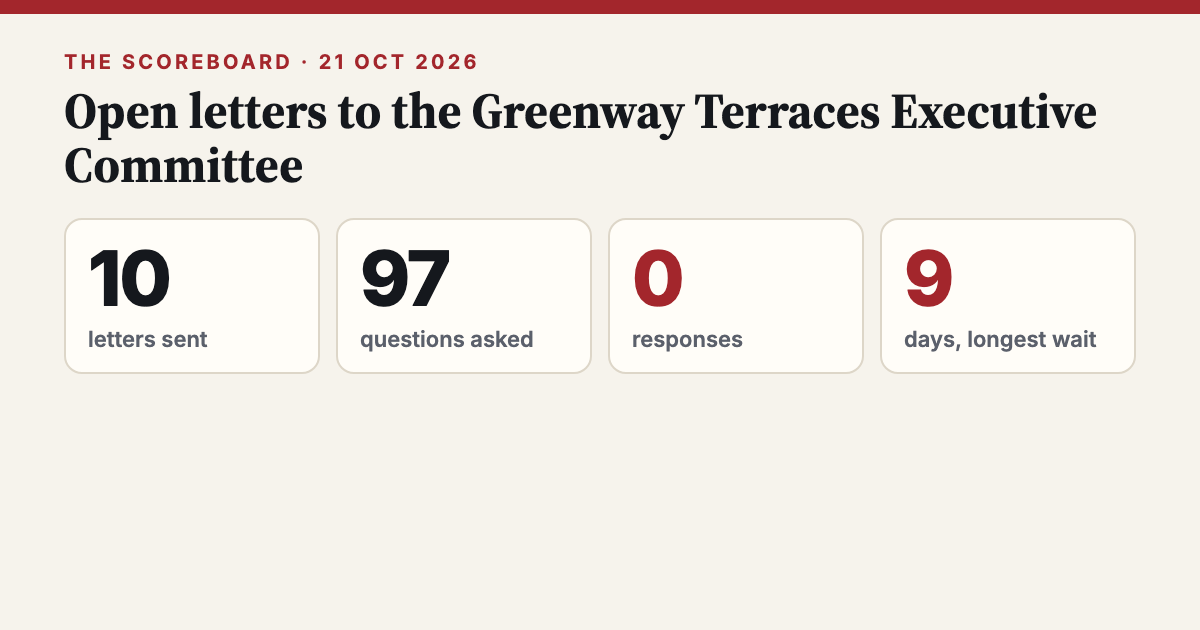
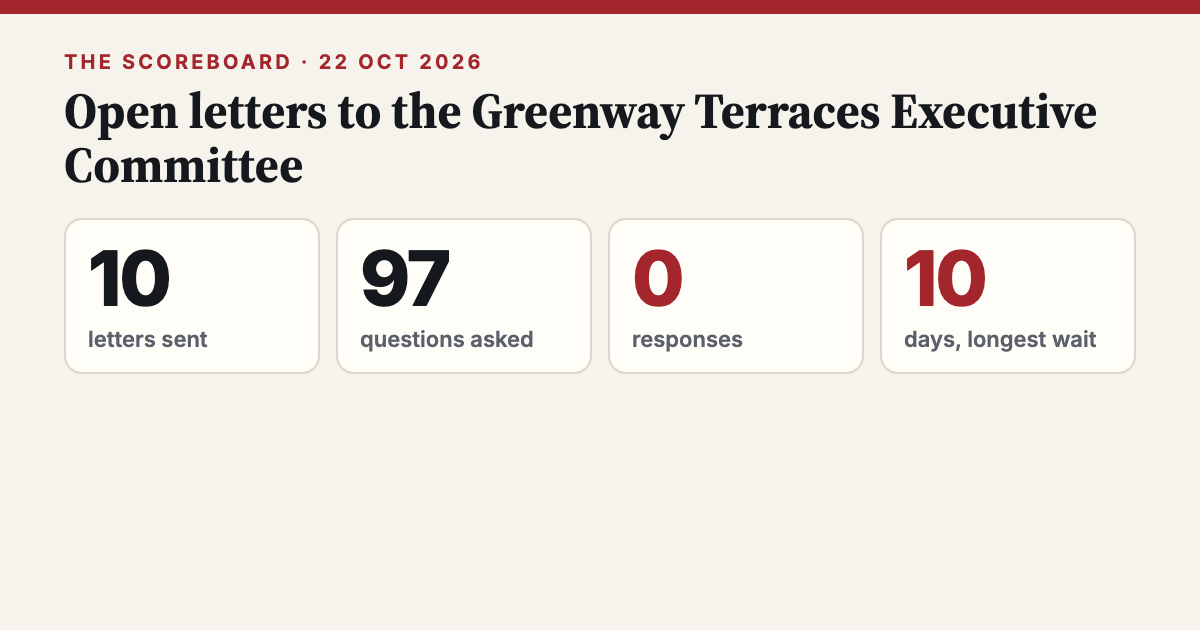
Update 2026-10-22 07:15

Changed region(s): [[0.74, 0.3921, 0.8325, 0.4825], [0.2775, 0.0905, 0.4008, 0.1206]]

diff --git a/l/2026-10-12-information-booklet-v1-0-october-2026-request-for/index.html b/l/2026-10-12-information-booklet-v1-0-october-2026-request-for/index.html
@@ -60,7 +60,7 @@ h3{font-size:17px;margin:26px 0 6px}
 <p class="lede">I've written to the Executive Committee of Owners Corporation UP12457 asking which resolution made the rules in the October 2026 booklet, whether they are registered, and for a reply by 6 November 2026.</p>
 <p class="meta">To <b>The Executive Committee, Greenway Terraces (UP12457)</b></p>
 <div class="clock" style="--c:var(--amber)" data-sent="2026-10-12" data-deadline="2026-11-06" data-small="6 Nov 2026">
-<div class="big">Day 9 of 25 — awaiting a response</div><div class="small">Response due 6 Nov 2026. 16 days left.</div><div class="bar"><i style="width:36%"></i></div></div>
+<div class="big">Day 10 of 25 — awaiting a response</div><div class="small">Response due 6 Nov 2026. 15 days left.</div><div class="bar"><i style="width:40%"></i></div></div>
 
 <h2>22 questions put to the Committee</h2>
 <ol class="qs" style="--c:var(--red)"><li>Which resolution made the rules in the booklet, at which meeting, and was it passed at a full or a reduced-quorum meeting?<span class="st">Unanswered</span></li><li>Have they been lodged for registration and, if so, on what date? If not, why is the booklet presenting them as the current rules?<span class="st">Unanswered</span></li><li>What has been issued to owners and residents since V1.0 was circulated, and does the Committee intend to correct or withdraw it if registration has not occurred?<span class="st">Unanswered</span></li><li>What is the Committee's authority for creating obligations by signage, given that rules are made by the Owners Corporation by special resolution?<span class="st">Unanswered</span></li><li>Which of the sign provisions does the Committee say are enforceable against residents, and under which registered rule?<span class="st">Unanswered</span></li><li>The supervision standards differ: rule 1.7(2)(b) (children under 16 in the pool room, by a responsible adult) and the signs (children under 12, by a person 16 or over). Which is correct?<span class="st">Unanswered</span></li><li>Which permitted ground does the Committee rely on for each of these requirements?<span class="st">Unanswered</span></li><li>What is the source and date of the advice recorded in Note 8, and who gave it?<span class="st">Unanswered</span></li><li>On what basis may the Committee require compliance with guidance not yet issued (rule 1.16(6))?<span class="st">Unanswered</span></li><li>Rule 1.17(3) limits charging of light electric vehicles, including mobility scooters, to the unit courtyard. What provision is made for residents with a disability who cannot comply?<span class="st">Unanswered</span></li><li>On what authority does the Strata Manager impose a penalty by letter, and how does that fit with section 109?<span class="st">Unanswered</span></li><li>Please identify the provision cited in paragraph 9, and the resolution by which the Committee and the Strata Manager were given permission to take legal action.<span class="st">Unanswered</span></li><li>The preamble says no special privilege to park is granted, while rule 1.7(8) grants one. Which applies?<span class="st">Unanswered</span></li><li>The policy treats 24 hours in a seven-day period in visitor parking as &quot;temporary parking&quot;, and rules 1.13(5)-(6) restrict visitor parking to visitors. On what basis does the Committee say a policy may vary a registered rule?<span class="st">Unanswered</span></li><li>Does the Committee accept that the policy does not remove an owner's ability to request that an infringement notice be given (s 111)?<span class="st">Unanswered</span></li><li>The booklet tells owners the best sources of information are the Act and minutes. Why does it not refer to the right to ask for access to the corporation's records (s 120A), to the Tribunal, or to mediation?<span class="st">Unanswered</span></li><li>It states that all owner communication should go through the Strata Manager's general email. Who is the Committee's designated contact for owner correspondence, and what response time does the Committee commit to?<span class="st">Unanswered</span></li><li>Several statements are made without a source: that only financial owners may vote; that Committee members are &quot;typically between 3 and 7&quot;; and that special levies may be determined only at an AGM or GM. Please identify the provision for each.<span class="st">Unanswered</span></li><li>Units of entitlement: the table in the booklet totals 9,996, not the stated 10,000. Lots 107 and 108 appear as 68, but the 2022 levy schedule shows 70. Which figure is correct, and has any levy been calculated from the table?<span class="st">Unanswered</span></li><li>CCTV Policy: on what advice does the Owners Corporation say the Information Privacy Act 2014, the Territory Records Act 2002 and the Human Rights Act 2004 apply to its system, and what advice was taken on the Privacy Act 1988 (Cth), the Workplace Privacy Act 2011 and the Surveillance Devices Act 2007?<span class="st">Unanswered</span></li><li>Notes 11, 12, 15 and 16 record non-compliant firewalls and combustible cladding. Please identify the reports and insurer conditions relied upon, and say who approved including them in the rules.<span class="st">Unanswered</span></li><li>The booklet says external paint colours &quot;must&quot; follow the palette and that owners &quot;must&quot; keep common-property garden patches in order. Under which rule?<span class="st">Unanswered</span></li></ol>

diff --git a/l/2026-10-15-video-cameras-my-questions-the-committees-responses-recommendations/index.html b/l/2026-10-15-video-cameras-my-questions-the-committees-responses-recommendations/index.html
@@ -60,7 +60,7 @@ h3{font-size:17px;margin:26px 0 6px}
 <p class="lede">I've written to the Greenway Terraces Executive Committee asking it to pause any camera extension, publish a review of the seven existing cameras and the $24,000 spend, and list every time footage was accessed.</p>
 <p class="meta">To <b>The Executive Committee, Greenway Terraces (UP12457)</b></p>
 <div class="clock" style="--c:var(--amber)" data-sent="2026-10-15" data-deadline="2026-11-05" data-small="5 Nov 2026">
-<div class="big">Day 6 of 21 — awaiting a response</div><div class="small">Response due 5 Nov 2026. 15 days left.</div><div class="bar"><i style="width:28.57142857142857%"></i></div></div>
+<div class="big">Day 7 of 21 — awaiting a response</div><div class="small">Response due 5 Nov 2026. 14 days left.</div><div class="bar"><i style="width:33.33333333333333%"></i></div></div>
 
 <h2>18 questions put to the Committee</h2>
 <ol class="qs" style="--c:var(--red)"><li>What specific problem is the extension meant to solve, and what is the evidence (dates, locations, types of incident, police reference numbers where applicable)?<span class="st">Unanswered</span></li><li>What have the existing seven cameras achieved on that problem? Has any footage led to an identification, a police outcome, or the prevention of a loss?<span class="st">Unanswered</span></li><li>What is the actual cost to date, and the whole-of-life cost over ten years of the proposed extension (hardware, installation, power and network, storage, licences, maintenance, replacement, administration)?<span class="st">Unanswered</span></li><li>Which fund would pay, under which budget or resolution, and is that consistent with the sinking fund plan and sections 75, 77 and 86 to 88?<span class="st">Unanswered</span></li><li>Where exactly would each camera go, what would it see, and could it see into private lots, balconies or windows?<span class="st">Unanswered</span></li><li>Would any camera be monitored, by whom, and at what cost? If not, what response is expected from recorded footage?<span class="st">Unanswered</span></li><li>What alternatives were considered (lighting, locks, access control, fencing, resident reporting, Neighbourhood Watch), with comparative cost and expected effect?<span class="st">Unanswered</span></li><li>What written legal and privacy advice has been obtained, and is the CCTV Policy current and compliant? Who may view footage, how is access logged, how long is footage kept, and how is it secured?<span class="st">Unanswered</span></li><li>What do residents think? Have owners and renters been consulted, including the different cultural and language groups in the complex?<span class="st">Unanswered</span></li><li>How will the vote be run so that it is representative? Of 151 units, a reduced quorum of 76 can decide a matter, so the Committee should state the turnout it regards as adequate, give clear notice with the supporting facts attached, and consider using the electronic voting already authorised by 2021 Motion 20. It should also explain the 28-day disallowance process.<span class="st">Unanswered</span></li><li>How will success be measured, who will report on it and when, and what happens if the objectives are not met?<span class="st">Unanswered</span></li><li>Whether the Committee accepts recommendations 1 to 11, and if not, why?<span class="st">Unanswered</span></li><li>A complete statement of each occasion footage has been accessed since installation, showing when, by whom, what it was used for and what the outcome was, or confirmation that no record exists?<span class="st">Unanswered</span></li><li>Whether this letter has been referred to the Security sub-committee, and the advice that sub-committee gives, reflected in the Committee's reply to me?<span class="st">Unanswered</span></li><li>Whether the Communications sub-committee will review the handling of correspondence, and when?<span class="st">Unanswered</span></li><li>When will the post-implementation review and report to owners be completed?<span class="st">Unanswered</span></li><li>Whether any further camera expenditure has been committed or is proposed?<span class="st">Unanswered</span></li><li>When can I expect answers to my letters of 22 March and 7 May 2026?<span class="st">Unanswered</span></li></ol>

diff --git a/index.html b/index.html
@@ -60,7 +60,7 @@ h3{font-size:17px;margin:26px 0 6px}
 <p class="lede">Open letters from an owner to the Executive Committee of Greenway Terraces (Units Plan 12457) and its strata manager: what was asked, and whether anyone answered. Each letter gets 28 days to be answered, or the deadline it sets itself. Responses are published in full; so is silence.</p>
 <div class="score"><div><b>10</b><span>letters sent</span></div><div><b>97</b><span>questions asked</span></div>
 <div class="red"><b>0</b><span>responses received</span></div>
-<div class="red"><b><span data-score-days="2026-10-12" style="font:inherit;color:inherit">9</span></b><span>days, longest wait</span></div></div>
+<div class="red"><b><span data-score-days="2026-10-12" style="font:inherit;color:inherit">10</span></b><span>days, longest wait</span></div></div>
 <input id="q" type="search" placeholder="Search letters" aria-label="Search letters">
 <div class="filters"><button class="on" data-f="">All (10)</button><button data-f="overdue">No response</button><button data-f="awaiting">Awaiting</button><button data-f="responded">Responded</button></div>
 <ul class="list" id="list"><li data-s="awaiting" data-t="greenway terraces newsletter: a call to explain decisions, costs and the solar battery i've written to the greenway terraces executive committee asking that newsletters explain decisions, costs and funding, and that questions about the proposed solar battery be answered. " style="--c:var(--amber)" data-sent="2026-10-20" data-deadline="2026-11-17">
@@ -83,7 +83,7 @@ h3{font-size:17px;margin:26px 0 6px}
 <a href="l/2026-10-12-maintenance-plan-for-greenway-terraces-qia-job-179351/">Greenway Terraces maintenance plan: inconsistencies and missing inspection records</a><div class="m"><span class="pill">Awaiting</span>12 Oct 2026 · to the Executive Committee · 7 questions</div></li>
 <li data-s="awaiting" data-t="questions to the greenway terraces committee on the october 2026 information booklet i've written to the executive committee of owners corporation up12457 asking which resolution made the rules in the october 2026 booklet, whether they are registered, and for a reply by 6 november 2026. " style="--c:var(--amber)" data-sent="2026-10-12" data-deadline="2026-11-06">
 <a href="l/2026-10-12-information-booklet-v1-0-october-2026-request-for/">Questions to the Greenway Terraces committee on the October 2026 information booklet</a><div class="m"><span class="pill">Awaiting</span>12 Oct 2026 · to the Executive Committee · 22 questions</div></li></ul>
-<div class="foot">Steve Prothero · owner · Published by Steve Prothero · Updated 21 October 2026</div>
+<div class="foot">Steve Prothero · owner · Published by Steve Prothero · Updated 22 October 2026</div>
 <script>(function(){var f='',q=document.getElementById('q');function go(){var v=q.value.toLowerCase();document.querySelectorAll('#list li').forEach(function(li){var s=li.querySelector('.pill').textContent==='No response'?'overdue':li.dataset.s;li.style.display=(!f||s===f)&&(!v||li.dataset.t.indexOf(v)>=0)?'':'none'})}
 q.oninput=go;document.querySelectorAll('.filters button').forEach(function(b){b.onclick=function(){document.querySelectorAll('.filters button').forEach(function(x){x.classList.remove('on')});b.classList.add('on');f=b.dataset.f;go()}})})();</script></div><script>(function(){
 var t=new Intl.DateTimeFormat('en-CA',{timeZone:'Australia/Sydney'}).format(new Date());

diff --git a/l/2026-10-18-the-pool-area-palm-trees-and-their-replacements/index.html b/l/2026-10-18-the-pool-area-palm-trees-and-their-replacements/index.html
@@ -60,7 +60,7 @@ h3{font-size:17px;margin:26px 0 6px}
 <p class="lede">I've written to the Greenway Terraces Executive Committee asking what removing the pool palms and planting the replacements cost, whether the new trees are dead, and why my 9 April 2026 questions are unanswered.</p>
 <p class="meta">To <b>The Executive Committee, Greenway Terraces (UP12457)</b></p>
 <div class="clock" style="--c:var(--amber)" data-sent="2026-10-18" data-deadline="2026-10-30" data-small="30 Oct 2026">
-<div class="big">Day 3 of 12 — awaiting a response</div><div class="small">Response due 30 Oct 2026. 9 days left.</div><div class="bar"><i style="width:25%"></i></div></div>
+<div class="big">Day 4 of 12 — awaiting a response</div><div class="small">Response due 30 Oct 2026. 8 days left.</div><div class="bar"><i style="width:33.33333333333333%"></i></div></div>
 
 <h2>11 questions put to the Committee</h2>
 <ol class="qs" style="--c:var(--red)"><li>Why were the palms removed? What exactly was the reason the palm trees at the pool were removed, and who decided it should be done?<span class="st">Unanswered</span></li><li>Cost of removal. What did it cost to remove the palm trees?<span class="st">Unanswered</span></li><li>Cost of the replacement trees. What did it cost to supply and plant the new trees? Please state the species, the number of trees, the contractor or landscaper, and the quote or invoice amounts.<span class="st">Unanswered</span></li><li>Are the new trees dead? Please confirm whether the replacement trees are dead, and how many of them.<span class="st">Unanswered</span></li><li>What is now planned? What is the plan for dealing with the dead trees, who will carry out the work, and who will bear the cost?<span class="st">Unanswered</span></li><li>Total cost. What is the total cost to the Owners Corporation of the whole project to date, being removal, replacement and any further work, and what is the expected total once the dead trees are dealt with?<span class="st">Unanswered</span></li><li>Who ran the project? Who actually ran this project with the contractors? Please name the committee member who was making the decisions about the planting, and say who approved the quote and the choice of species, and when.<span class="st">Unanswered</span></li><li>Species advice. Was the species of replacement tree recommended by the contractor or landscaper?<span class="st">Unanswered</span></li><li>Contractor liability. If so, will replacement be at the contractor's cost or the Owners Corporation's?<span class="st">Unanswered</span></li><li>Cause. Is the cause of the decline or death of the trees known, and has any investigation been done into whether pool water, splash or run-off contributed?<span class="st">Unanswered</span></li><li>Authority. What resolution or other authority was relied on for the palm replacement (my question of 26 March 2026)?<span class="st">Unanswered</span></li></ol>

diff --git a/l/2026-10-20-request-for-explanation-proposed-battery-and-source-of/index.html b/l/2026-10-20-request-for-explanation-proposed-battery-and-source-of/index.html
@@ -60,7 +60,7 @@ h3{font-size:17px;margin:26px 0 6px}
 <p class="lede">I've written to the Greenway Terraces Executive Committee (UP12457) asking where the solar electricity to charge the proposed common property battery would come from, and for a reply by 17 November 2026.</p>
 <p class="meta">To <b>The Executive Committee, Greenway Terraces (UP12457)</b></p>
 <div class="clock" style="--c:var(--amber)" data-sent="2026-10-20" data-deadline="2026-11-17" data-small="17 Nov 2026">
-<div class="big">Day 1 of 28 — awaiting a response</div><div class="small">Response due 17 Nov 2026. 27 days left.</div><div class="bar"><i style="width:3.571428571428571%"></i></div></div>
+<div class="big">Day 2 of 28 — awaiting a response</div><div class="small">Response due 17 Nov 2026. 26 days left.</div><div class="bar"><i style="width:7.142857142857142%"></i></div></div>
 
 <h2>6 questions put to the Committee</h2>
 <ol class="qs" style="--c:var(--red)"><li>Does the Owners Corporation own any solar panels? My understanding is that it does not. If that is correct, I request an explanation of where this electricity will come from and how the Owners Corporation will obtain the legal right to use it.<span class="st">Unanswered</span></li><li>Source and ownership of electricity: Who owns the solar panels generating the electricity? Is the electricity coming from individual townhouse owners, the electricity grid or another provider? What evidence establishes that this electricity cannot be sold to the grid?<span class="st">Unanswered</span></li><li>Legal entitlement: If the electricity is generated by privately owned solar panels, how does the Owners Corporation acquire the legal right to use it? Have the owners concerned consented, and will they be compensated? What agreements or legal advice establish the Owners Corporation's entitlement to this electricity?<span class="st">Unanswered</span></li><li>Technical arrangements: How will the electricity reach the battery? Will the battery connect to individual properties, common property electrical infrastructure or the distribution network? What arrangements have been made with Evoenergy or an electricity retailer?<span class="st">Unanswered</span></li><li>Financial justification: What is the total cost of purchasing and installing the battery? Will the Owners Corporation pay for the electricity used to charge it? What are the projected annual net savings, maintenance costs, battery lifespan and payback period? Has a financial business case been prepared using actual electricity consumption and generation data?<span class="st">Unanswered</span></li><li>Governance and approval: What approvals have been obtained, and what expenditure has already been authorised? Will the technical assessment, financial business case and relevant agreements be made available to owners?<span class="st">Unanswered</span></li></ol>

diff --git a/l/2026-10-13-greenway-terraces-up12457-executive-committee-minutes-record-keeping/index.html b/l/2026-10-13-greenway-terraces-up12457-executive-committee-minutes-record-keeping/index.html
@@ -60,7 +60,7 @@ h3{font-size:17px;margin:26px 0 6px}
 <p class="lede">I've written to Grady's Strata, for referral to the Executive Committee, asking when the 29 September 2026 minutes went to owners, how the four subcommittees were set up, and how records are kept.</p>
 <p class="meta">To <b>The Executive Committee, Greenway Terraces (UP12457)</b></p>
 <div class="clock" style="--c:var(--amber)" data-sent="2026-10-13" data-deadline="2026-11-10" data-small="10 Nov 2026">
-<div class="big">Day 8 of 28 — awaiting a response</div><div class="small">Response due 10 Nov 2026. 20 days left.</div><div class="bar"><i style="width:28.57142857142857%"></i></div></div>
+<div class="big">Day 9 of 28 — awaiting a response</div><div class="small">Response due 10 Nov 2026. 19 days left.</div><div class="bar"><i style="width:32.142857142857146%"></i></div></div>
 
 <h2>6 questions put to the Committee</h2>
 <ol class="qs" style="--c:var(--red)"><li>Minutes and statutory timing: Confirm when the 29 September 2026 minutes were provided to all owners and whether the 14-day statutory deadline (13 October 2026) was met. Consider a standard format identifying substantive decisions, relevant conditions and outcomes.<span class="st">Unanswered</span></li><li>Financial decisions: Consistently record the supplier, purpose, approved amount and budget allocation for expenditure, and identify the financial reports considered at each meeting.<span class="st">Unanswered</span></li><li>Major works and corporate records: Link resolutions to quotations, contracts, defect and insurance documents, warranties and project-status reports; establish records that remain accessible across committee and strata-manager changes.<span class="st">Unanswered</span></li><li>Subcommittees: Explain how members of the Energy, Security, Building Defects and Communications subcommittees were selected, whether other owners could contribute, and when written terms of reference will be available setting out objectives, authority, responsibilities and reporting.<span class="st">Unanswered</span></li><li>Outstanding work and correspondence: Maintain an action register showing ownership, deadlines and status; record the general subject and outcome of substantive owner correspondence while protecting privacy.<span class="st">Unanswered</span></li><li>Communications and governance: Clarify official communication channels and ask Grady to advise whether the present minute-taking and record-retention practices are suitable for a 151-townhouse corporation, and what improvements it recommends.<span class="st">Unanswered</span></li></ol>

diff --git a/l/2026-10-14-authority-for-the-playground-softfall-fitness-area-colour/index.html b/l/2026-10-14-authority-for-the-playground-softfall-fitness-area-colour/index.html
@@ -60,7 +60,7 @@ h3{font-size:17px;margin:26px 0 6px}
 <p class="lede">I've written to the Greenway Terraces Executive Committee asking which fund paid for the playground softfall, the fitness area colour change and the shade sails, and which section of the Act authorised each.</p>
 <p class="meta">To <b>The Executive Committee, Greenway Terraces (UP12457)</b></p>
 <div class="clock" style="--c:var(--amber)" data-sent="2026-10-14" data-deadline="2026-10-28" data-small="28 Oct 2026">
-<div class="big">Day 7 of 14 — awaiting a response</div><div class="small">Response due 28 Oct 2026. 7 days left.</div><div class="bar"><i style="width:50%"></i></div></div>
+<div class="big">Day 8 of 14 — awaiting a response</div><div class="small">Response due 28 Oct 2026. 6 days left.</div><div class="bar"><i style="width:57.14285714285714%"></i></div></div>
 
 <h2>7 questions put to the Committee</h2>
 <ol class="qs" style="--c:var(--red)"><li>The fund from which it was paid (Administrative or Sinking)<span class="st">Unanswered</span></li><li>Whether section 77(a), section 77(b) or section 88 is relied on<span class="st">Unanswered</span></li><li>How the payment fits that provision<span class="st">Unanswered</span></li><li>The plan, in the version adopted by Motion 3, lists &quot;Repair/replace softfall surface in outdoor gym&quot; in 2025/26 and, separately, &quot;Repair/replace playground softfall surface&quot; in 2044. The works were carried out in the children's playground. Which plan entry is the payment said to be consistent with, and how?<span class="st">Unanswered</span></li><li>The Purchasing Decision Assessment Form records a full cost of $47,500 ex GST, and the plan entry is $45,000 inc GST. Was the difference approved by any resolution of the Executive Committee or the Owners Corporation, or by an amendment to the plan under section 86?<span class="st">Unanswered</span></li><li>The same Bruces Sports and Play quotation of 7 October 2025 also covered a colour change to the fitness equipment area ($13,500 + GST) and shade sails ($15,000 + GST). For each, which fund was used and what authority is relied on, including any line in the 2025/26 Administrative Fund budget?<span class="st">Unanswered</span></li><li>I would be glad to know whether the Committee is willing to consider this.<span class="st">Unanswered</span></li></ol>

diff --git a/l/2026-10-12-maintenance-plan-for-greenway-terraces-qia-job-179351/index.html b/l/2026-10-12-maintenance-plan-for-greenway-terraces-qia-job-179351/index.html
@@ -60,7 +60,7 @@ h3{font-size:17px;margin:26px 0 6px}
 <p class="lede">I've written to the Greenway Terraces Executive Committee about the August 2022 maintenance plan (QIA job 179351), asking for inspection and completion records and a reply by Friday 30 October 2026.</p>
 <p class="meta">To <b>The Executive Committee, Greenway Terraces (UP12457)</b></p>
 <div class="clock" style="--c:var(--amber)" data-sent="2026-10-12" data-deadline="2026-10-30" data-small="30 Oct 2026">
-<div class="big">Day 9 of 18 — awaiting a response</div><div class="small">Response due 30 Oct 2026. 9 days left.</div><div class="bar"><i style="width:50%"></i></div></div>
+<div class="big">Day 10 of 18 — awaiting a response</div><div class="small">Response due 30 Oct 2026. 8 days left.</div><div class="bar"><i style="width:55.55555555555556%"></i></div></div>
 
 <h2>7 questions put to the Committee</h2>
 <ol class="qs" style="--c:var(--red)"><li>Is the August 2022 plan the maintenance plan currently adopted by the Owners Corporation? If a later version exists, please provide it.<span class="st">Unanswered</span></li><li>Has the plan been reviewed or updated since 15 August 2022? If so, when, and by whom?<span class="st">Unanswered</span></li><li>Please provide the inspection and service records for fire hose reels, portable fire extinguishers, hydrant valve assemblies, emergency and exit lighting, and the electrical switchboards and RCDs since 1 August 2021. If no such records exist for any item, please say so.<span class="st">Unanswered</span></li><li>Please confirm, for each item scheduled in 2022 to 2026, whether the work was completed, and provide the records of completion or state that none exist.<span class="st">Unanswered</span></li><li>Does the Committee accept the inconsistencies in section 2 (including the pool filter and pool surface entries, the blank install dates and the AS2293.2-1995 reference)? If any is disputed, please say which and why.<span class="st">Unanswered</span></li><li>Will the plan be revised and reconciled with version 4 of the sinking fund? If so, by whom, and by what date?<span class="st">Unanswered</span></li><li>Who is responsible for maintaining the plan and for recording inspections against it?<span class="st">Unanswered</span></li></ol>

diff --git a/l/2026-10-13-covering-note-brief-on-participation-the-committee-and/index.html b/l/2026-10-13-covering-note-brief-on-participation-the-committee-and/index.html
@@ -60,7 +60,7 @@ h3{font-size:17px;margin:26px 0 6px}
 <p class="lede">I've written to the Executive Committee of Units Plan 12457 asking it to confirm what the new communication group is for, and to adopt pre-AGM consultation, one route for resident input, and electronic voting.</p>
 <p class="meta">To <b>The Executive Committee, Greenway Terraces (UP12457)</b></p>
 <div class="clock" style="--c:var(--amber)" data-sent="2026-10-13" data-deadline="2026-11-10" data-small="10 Nov 2026">
-<div class="big">Day 8 of 28 — awaiting a response</div><div class="small">Response due 10 Nov 2026. 20 days left.</div><div class="bar"><i style="width:28.57142857142857%"></i></div></div>
+<div class="big">Day 9 of 28 — awaiting a response</div><div class="small">Response due 10 Nov 2026. 19 days left.</div><div class="bar"><i style="width:32.142857142857146%"></i></div></div>
 
 <h2>9 questions put to the Committee</h2>
 <ol class="qs" style="--c:var(--red)"><li>Its remit, and whether it advises the Committee or communicates on the Committee's behalf.<span class="st">Unanswered</span></li><li>Its membership, including whether owners outside the Committee and residents who rent are involved.<span class="st">Unanswered</span></li><li>Who it reports to, and what authority it has to act.<span class="st">Unanswered</span></li><li>Its timetable, including when its first outputs are due and when it will report to owners.<span class="st">Unanswered</span></li><li>That the brief be tabled at the next Committee meeting, and the four matters above confirmed.<span class="st">Unanswered</span></li><li>That the Committee state which of the three priorities it will adopt, and by when.<span class="st">Unanswered</span></li><li>What would a resident who has never attended want to know before considering standing?<span class="st">Unanswered</span></li><li>How should nominations be announced so that standing is plainly open to everyone?<span class="st">Unanswered</span></li><li>What published timeframes for acknowledging and answering resident correspondence should the Committee adopt, and who should own them?<span class="st">Unanswered</span></li></ol>

diff --git a/l/2026-10-18-guidelines-for-submitting-correspondence-to-the-ec-status/index.html b/l/2026-10-18-guidelines-for-submitting-correspondence-to-the-ec-status/index.html
@@ -60,7 +60,7 @@ h3{font-size:17px;margin:26px 0 6px}
 <p class="lede">I've written to the Greenway Terraces Executive Committee asking it to withdraw item 8 on AI from its correspondence guidelines, confirm owners' statutory rights, and answer 34 outstanding items by 30 October 2026.</p>
 <p class="meta">To <b>The Executive Committee, Greenway Terraces (UP12457)</b></p>
 <div class="clock" style="--c:var(--amber)" data-sent="2026-10-18" data-deadline="2026-10-30" data-small="30 Oct 2026">
-<div class="big">Day 3 of 12 — awaiting a response</div><div class="small">Response due 30 Oct 2026. 9 days left.</div><div class="bar"><i style="width:25%"></i></div></div>
+<div class="big">Day 4 of 12 — awaiting a response</div><div class="small">Response due 30 Oct 2026. 8 days left.</div><div class="bar"><i style="width:33.33333333333333%"></i></div></div>
 
 <h2>7 questions put to the Committee</h2>
 <ol class="qs" style="--c:var(--red)"><li>Please confirm they are not rules of the owners corporation and identify any resolution adopting them.<span class="st">Unanswered</span></li><li>Please confirm requests under the Act will be accepted, with time running from receipt, whatever their length or format.<span class="st">Unanswered</span></li><li>Item 8 (AI): Nothing in the Act requires it. Please withdraw it.<span class="st">Unanswered</span></li><li>Video cameras: post-implementation review asked 22 March and again 7 May (has trespass actually fallen?).<span class="st">Unanswered</span></li><li>Playground softfall: asked 30 March whether it still met the fall-safety standard.<span class="st">Unanswered</span></li><li>Please state in writing the problem the Guidelines address, and the authority for items 8 and 9.<span class="st">Unanswered</span></li><li>I ask for a written reply by Friday 30 October 2026 covering: withdrawal of item 8; the confirmations in section 1; each register item answered, closed with reasons, or given a date; and who is responsible for answering owner correspondence.<span class="st">Unanswered</span></li></ol>

diff --git a/l/2026-10-20-greenway-terraces-newsletter-some-constructive-suggestions/index.html b/l/2026-10-20-greenway-terraces-newsletter-some-constructive-suggestions/index.html
@@ -60,7 +60,7 @@ h3{font-size:17px;margin:26px 0 6px}
 <p class="lede">I've written to the Greenway Terraces Executive Committee asking that newsletters explain decisions, costs and funding, and that questions about the proposed solar battery be answered.</p>
 <p class="meta">To <b>The Executive Committee, Greenway Terraces (UP12457)</b></p>
 <div class="clock" style="--c:var(--amber)" data-sent="2026-10-20" data-deadline="2026-11-17" data-small="17 Nov 2026">
-<div class="big">Day 1 of 28 — awaiting a response</div><div class="small">Response due 17 Nov 2026. 27 days left.</div><div class="bar"><i style="width:3.571428571428571%"></i></div></div>
+<div class="big">Day 2 of 28 — awaiting a response</div><div class="small">Response due 17 Nov 2026. 26 days left.</div><div class="bar"><i style="width:7.142857142857142%"></i></div></div>
 
 <h2>4 questions put to the Committee</h2>
 <ol class="qs" style="--c:var(--red)"><li>Explain decisions, not simply announce them. What is proposed, why is it necessary, what alternatives were considered and who authorised it?<span class="st">Unanswered</span></li><li>Provide meaningful financial information. What will projects cost, how will they be funded, and what savings or benefits are expected?<span class="st">Unanswered</span></li><li>Report outcomes and progress. What has been achieved, what remains outstanding and are projects proceeding within budget?<span class="st">Unanswered</span></li><li>What are we doing, why are we doing it, what will it cost, what are the benefits, and how can residents obtain further information?<span class="st">Unanswered</span></li></ol>
